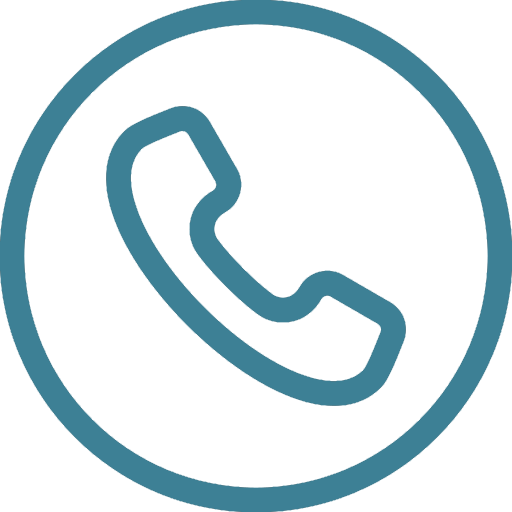
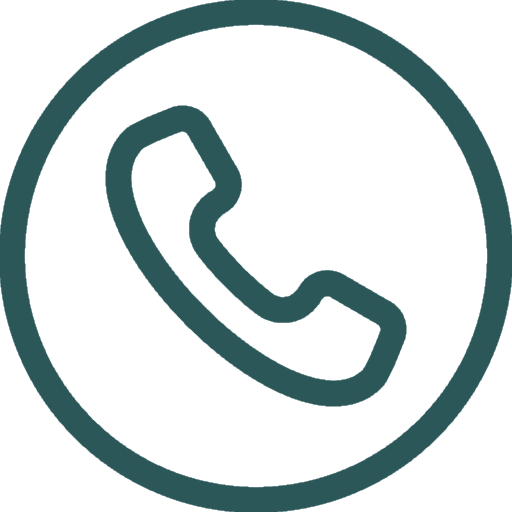
update charte graph

Changed region(s): [[0.0, 0.0, 1.0, 1.0], [0.1875, 0.1875, 0.8125, 0.8125]]

diff --git a/style/style_gen.css b/style/style_gen.css
@@ -1,11 +1,11 @@
 :root {
     --title : #F0F0F0;
     --txt : #CECECE;
-    --main-blue : rgb(61, 128, 149);
+    --main-green : #2c5758;
     --desktopComp : #323232;
     --footer : #393939;
     --gradiant-black : linear-gradient(66deg, #1E1E1E 13.45%, #2F2F2F 78.23%);
-    --gradiant-blue : linear-gradient(93deg, #3D8095 0.03%, #3F5E88 100.03%);
+    --gradiant-green : linear-gradient(93deg, #2c5758 0.03%, #3c8e90 100.03%);
 }
 
 *{
@@ -74,7 +74,7 @@ body {
 }
 
 .selected {
-    color: var(--main-blue);
+    color: var(--main-green);
     font-size: 1rem;
     font-weight: bold;
 }
@@ -96,7 +96,7 @@ body {
 
 .txt-Portfolio {
     font-size: 1.3rem;
-    color: var(--main-blue);
+    color: var(--main-green);
     font-family: "Inter", sans-serif;
     font-weight: bold;
 }
@@ -129,7 +129,7 @@ body {
     justify-content: center;
     align-items: center;
     border-radius: 5px;
-    background: var(--gradiant-blue);
+    background: var(--gradiant-green);
 }
 
 .header {
@@ -173,9 +173,9 @@ body {
 }
 
 .line {
-    background-color: var(--main-blue);
+    background-color: var(--main-green);
     width: 2dvw;
-    height: 0.3dvh;
+    height: 0.4dvh;
 }
 
 .title-line {
@@ -206,7 +206,7 @@ body {
 }
 
 .link-proj:hover{
-    color: var(--main-blue);
+    color: var(--main-green);
     text-decoration: underline;
 }
 
@@ -300,7 +300,7 @@ body {
     border-radius: 50px;
     width: 2dvw;
     aspect-ratio: 1/1;
-    background: var(--gradiant-blue);
+    background: var(--gradiant-green);
     margin-top: 2dvh;
 }
 

diff --git a/index.html b/index.html
@@ -56,7 +56,7 @@
 	<div class="sec-2" id="1">
 		<div class="sec-2g">
 			<div class="border-pic">
-				<img src="" alt="">
+				<img src="../Asset/me.JPG" alt="">
 			</div>
 		</div>
 		<div class="sec-2d">
@@ -89,7 +89,7 @@
 		</div>
 		<div class="card-zone">
 			<div class="card" id="dev-contain">
-				<img class="pic-spe" src="Asset/coding_blue.png" alt="">
+				<img class="pic-spe" src="Asset/coding_green.png" alt="">
 				<p class="spe-title">Développement</p>
 				<p class="logiciel-link">Python, C#, Arduino, Java...</p>
 			</div>
@@ -114,7 +114,7 @@
 			</div>
 
 			<div class="card" id="elec-contain">
-				<img class="pic-spe" src="Asset/pcb-blue.png" alt="">
+				<img class="pic-spe" src="Asset/pcb_green.png" alt="">
 				<p class="spe-title">Conception électronique</p>
 				<p class="logiciel-link">Altium Designer, Kicad, Circuit Maker</p>
 			</div>
@@ -129,7 +129,7 @@
 				<img src="Asset/logo/circuitMaker.png" alt="">
 			</div>
 			<div class="card" id="meca-contain">
-				<img class="pic-spe" src="Asset/gear_blue.png" alt="">
+				<img class="pic-spe" src="Asset/gear_green.png" alt="">
 				<p class="spe-title">Conception mécanique</p>
 				<p class="logiciel-link">Fusion360</p>
 			</div>

diff --git a/style/style.css b/style/style.css
@@ -1,7 +1,7 @@
 @import url("../style/style_gen.css");
 
 .sec-1 {
-    background: linear-gradient(0deg, rgba(66, 129, 149, 0.10) 0%, rgba(66, 129, 149, 0.10) 100%), url("../Asset/workplace.jpg"), lightgray 50% / cover no-repeat;
+    background: linear-gradient(0deg, rgba(44, 87, 88, 0.10) 0%, rgba(44, 87, 88, 0.10) 100%), url("../Asset/workplace.jpg"), lightgray 50% / cover no-repeat;
     background-size: cover;
     width: 100dvw;
     background-color: var(--title);
@@ -49,7 +49,16 @@
 .border-pic {
     width: 60%;
     height: 60%;
-    background-color: var(--main-blue);
+    background-color: var(--main-green);
+}
+
+.border-pic img{
+    width: 100%;
+    height: 100%;
+    background-color: var(--main-green);
+    box-shadow: 10px 10px 5px var(--main-green);
+    filter: saturate(80%) contrast(100%) brightness(100%);
+
 }
 
 .sec-2d {

diff --git a/style/style_realisation.css b/style/style_realisation.css
@@ -10,7 +10,7 @@
 .line-banniere{
     width: 100dvw;
     height: 1dvh;
-    background-color: var(--main-blue);
+    background-color: var(--main-green);
 }
 
 .banniere-pic {
@@ -36,7 +36,7 @@
 .line-category {
     height: 5dvh;
     width: 2px;
-    background-color: var(--main-blue);
+    background-color: var(--main-green);
 }
 
 .project-unit {
@@ -132,7 +132,7 @@
 .under-line {
     width: 65%;
     height: 0.5dvh;
-    background-color: var(--main-blue);
+    background-color: var(--main-green);
 }
 
 .language {
